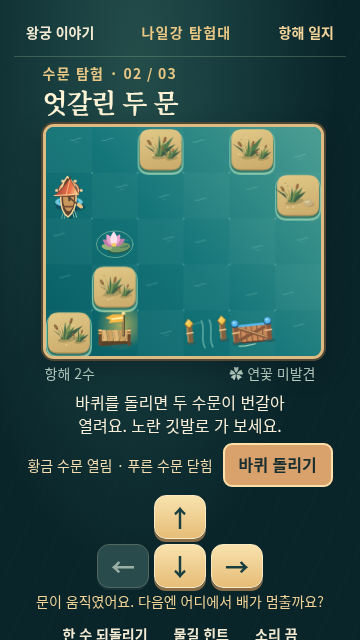
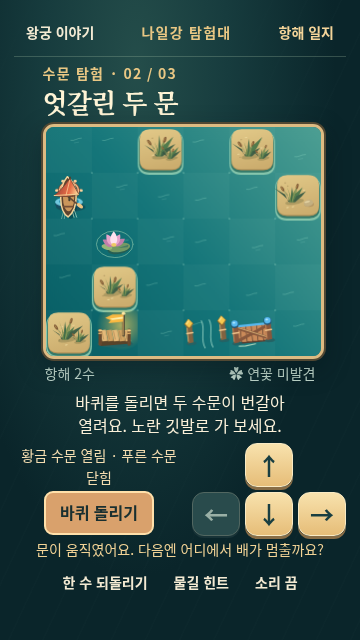
작은 화면에서 수문과 방향키를 함께 보이게 하고 여덟 크기 검증

Changed region(s): [[0.0611, 0.6875, 0.9778, 1.0]]

diff --git a/tools/test/full/nile-locks.js b/tools/test/full/nile-locks.js
@@ -129,11 +129,33 @@ async function check(browser, origin, mobile, width, height) {
     console.log(width+'×'+height,'수문 3곳·두 항해 저장·이전 저장 복원·일지 통과');
   } finally { await page.close(); }
 }
+async function layouts(browser, origin) {
+  const page = await browser.newPage({hasTouch:true, isMobile:true});
+  try {
+    await page.goto(origin+'/nile.html?course=locks');
+    for (const [width,height] of [[320,568],[360,640],[390,844],[414,896],[568,320],[844,390],[768,1024],[1280,800]]) {
+      await page.setViewportSize({width,height});
+      const fit = await page.evaluate(() => {
+        const screen = document.querySelector('.river-screen');
+        const buttons = screen.querySelectorAll('.river-key,.river-wheel');
+        return screen.scrollWidth <= screen.clientWidth && Array.from(buttons).every(button => {
+          const box = button.getBoundingClientRect();
+          return box.width >= 44 && box.height >= 44 && box.left >= 0 && box.right <= innerWidth &&
+            box.top >= 0 && box.bottom <= innerHeight;
+        });
+      });
+      assert(fit,width+'×'+height+'에서 수문과 노 젓기 단추가 첫 화면에 보여야 한다');
+    }
+    console.log('화면 8종 · 좌우 넘침 없이 수문과 방향 단추 44px 이상, 첫 화면에 표시');
+  } finally { await page.close(); }
+}
 (async () => {
   checkRoutes(); await fs.mkdir(out,{recursive:true});
   const b = await chromium.launch({proxy});
   try {
     const origin = await gameOrigin(b);
+    await layouts(b,origin);
+    await check(b,origin,true,320,568);
     await check(b,origin,true,360,640);
     await check(b,origin,false,1280,800);
     await check(b,origin,true,844,390);

diff --git a/web/js/nile-game.js b/web/js/nile-game.js
@@ -133,7 +133,7 @@
       el('p', {class:'river-input-note'}, '방향 단추 · 밀기 · 방향키'));
     const result = el('section', {class:'river-result', hidden:true});
     const journal = el('dialog', {class:'river-journal', 'aria-label':'항해 일지'});
-    const screen = el('main', {class:'river-screen'},
+    const screen = el('main', {class:isLockCourse ? 'river-screen river-locks' : 'river-screen'},
       el('nav', {class:'river-nav'}, back, el('span', {}, '나일강 탐험대'), journalButton),
       el('div', {class:'river-layout'},
         el('div', {class:'river-chart'}, routeNo, name, board,

diff --git a/web/css/nile.css b/web/css/nile.css
@@ -96,3 +96,8 @@
   from {transform:translate(-50%,-50%) scale(.65);opacity:1;}
   to {transform:translate(-50%,-50%) scale(1.6);opacity:0;}
 }
+@media(max-width:479px) and (max-height:720px) and (orientation:portrait) {
+  .river-locks .river-controls:not([hidden]) {display:grid;grid-template-columns:minmax(0,1fr) auto;align-items:center;gap:8px;margin:5px auto 0;max-width:335px;}
+  .river-locks .river-gate-panel {flex-direction:column;margin:0;gap:2px;}
+  .river-locks .river-pad {grid-template-columns:repeat(3,48px);}
+}
